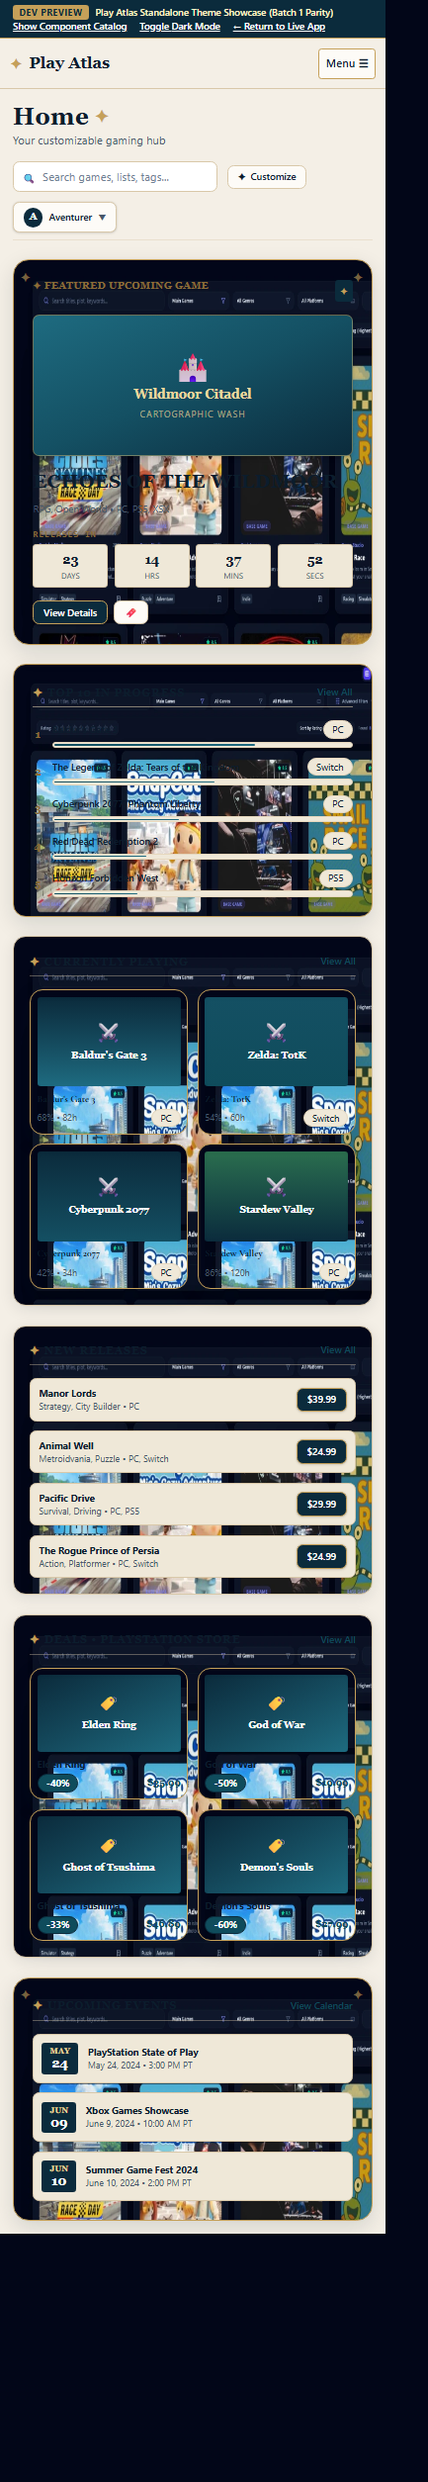
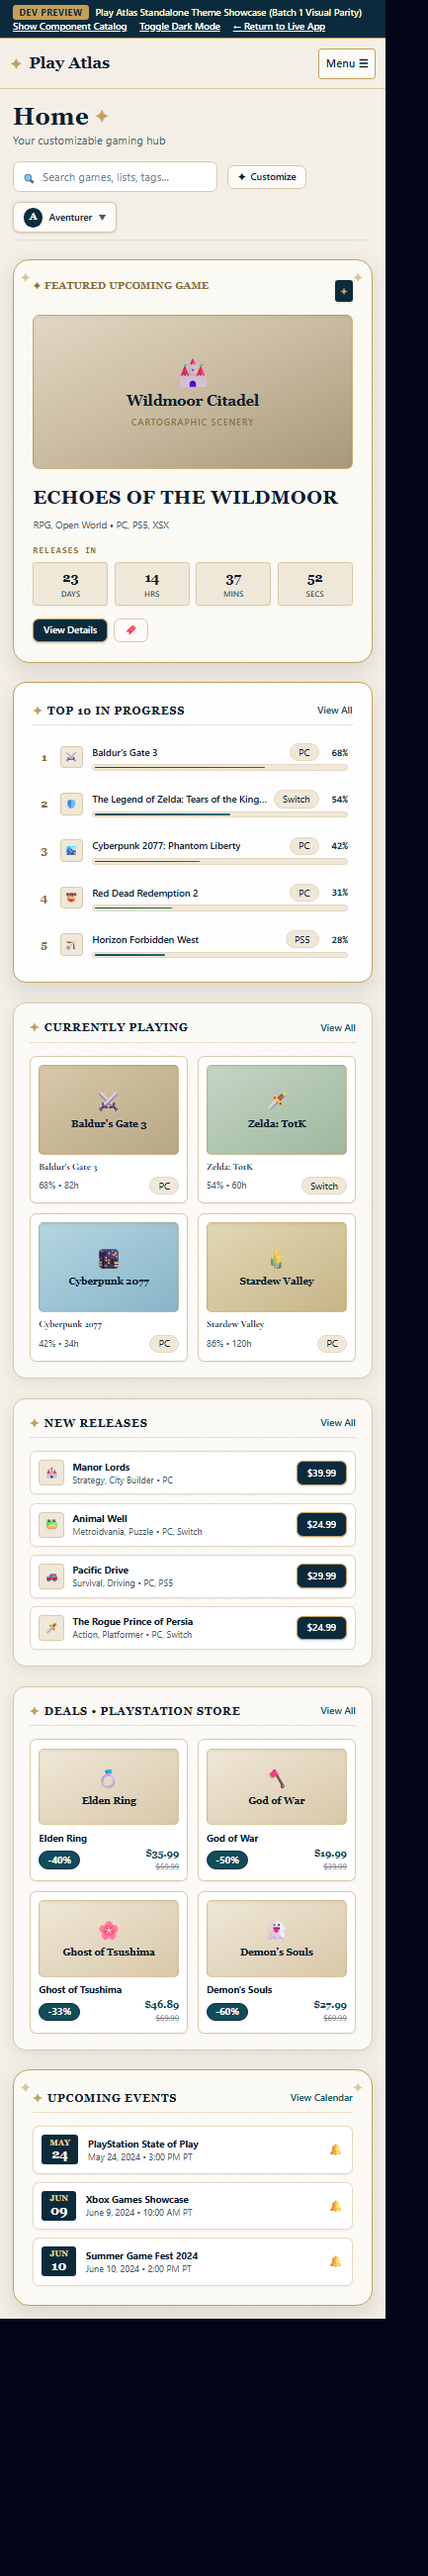
fix(theme): eliminate dark app screenshot texture tiling and apply light parchment widget system

diff --git a/src/pages/DevThemeShowcasePage.tsx b/src/pages/DevThemeShowcasePage.tsx
@@ -28,7 +28,7 @@ export const DevThemeShowcasePage: React.FC = () => {
             Dev Preview
           </span>
           <span className="font-semibold text-amber-100">
-            Play Atlas Standalone Theme Showcase (Batch 1 Parity)
+            Play Atlas Standalone Theme Showcase (Batch 1 Visual Parity)
           </span>
         </div>
         <div className="flex items-center gap-4">
@@ -80,14 +80,14 @@ export const DevThemeShowcasePage: React.FC = () => {
           <div className="space-y-6">
             {/* Play Atlas Branding Logo */}
             <div className="flex items-center gap-3 pb-4 border-b border-[#D9C8A9]/60">
-              <div className="w-10 h-10 rounded-full bg-[#0B2B3C] border-2 border-[#C5A059] flex items-center justify-center text-[#C5A059] shadow-md font-serif font-bold text-lg select-none flex-shrink-0">
+              <div className="w-11 h-11 rounded-full bg-[#0B2B3C] border-2 border-[#C5A059] flex items-center justify-center text-[#C5A059] shadow-md font-serif font-bold text-xl select-none flex-shrink-0">
                 ✦
               </div>
               <div>
                 <h1 className="font-serif text-2xl font-bold tracking-wide text-[#0C1D2D] leading-none">
                   Play Atlas
                 </h1>
-                <span className="text-[10px] uppercase font-semibold text-[#8C6D37] tracking-widest block mt-0.5">
+                <span className="text-[10px] uppercase font-semibold text-[#8C6D37] tracking-widest block mt-1">
                   Cartographic Hub
                 </span>
               </div>
@@ -262,21 +262,22 @@ export const DevThemeShowcasePage: React.FC = () => {
               <div className="grid grid-cols-1 lg:grid-cols-12 gap-6 w-full">
                 {/* Featured Upcoming Game (7 Cols) */}
                 <div className="lg:col-span-7">
-                  <AtlasPanel variant="featured" cornerOrnaments className="h-full flex flex-col justify-between space-y-4">
+                  <AtlasPanel variant="featured" cornerOrnaments className="h-full flex flex-col justify-between space-y-4 bg-[#FDFBF5] border border-[#C5A059] shadow-sm">
                     <div className="flex justify-between items-start">
-                      <span className="text-xs font-serif font-bold uppercase tracking-wider text-[#8C6D37]">
-                        ✦ FEATURED UPCOMING GAME
+                      <span className="text-xs font-serif font-bold uppercase tracking-wider text-[#8C6D37] flex items-center gap-1">
+                        <span>✦</span> FEATURED UPCOMING GAME
                       </span>
-                      <span className="bg-[#0B2B3C] text-[#C5A059] p-1.5 rounded text-xs">✦</span>
+                      <span className="bg-[#0B2B3C] text-[#C5A059] p-1.5 rounded text-xs shadow-sm">✦</span>
                     </div>
 
-                    <div className="grid grid-cols-1 sm:grid-cols-12 gap-4 items-center">
-                      {/* Mountain / Citadel Fantasy Artwork Graphic */}
-                      <div className="sm:col-span-5 h-44 rounded-lg bg-gradient-to-br from-[#1E6B80] via-[#145063] to-[#0B2B3C] border border-[#C5A059]/50 flex flex-col items-center justify-center text-white p-4 text-center shadow-md">
-                        <span className="text-4xl mb-1">🏰</span>
-                        <span className="font-serif text-base font-bold text-[#EBD99F]">Wildmoor Citadel</span>
-                        <span className="text-[10px] opacity-80 mt-1 uppercase tracking-widest text-[#EBD99F]/80">
-                          Cartographic Wash
+                    <div className="grid grid-cols-1 sm:grid-cols-12 gap-5 items-center">
+                      {/* Original Dedicated Fantasy Watercolor Landscape Graphic */}
+                      <div className="sm:col-span-5 h-48 rounded-lg bg-gradient-to-br from-[#E2D8C3] via-[#C9BBA0] to-[#A8987B] border border-[#C5A059]/60 flex flex-col items-center justify-center text-[#0C1D2D] p-4 text-center shadow-inner relative overflow-hidden">
+                        <div className="absolute inset-0 bg-[radial-gradient(ellipse_at_top,_var(--tw-gradient-stops))] from-amber-100/40 via-transparent to-black/10 pointer-events-none" />
+                        <span className="text-4xl mb-1 text-[#0B2B3C] z-10">🏰</span>
+                        <span className="font-serif text-lg font-bold text-[#0C1D2D] z-10">Wildmoor Citadel</span>
+                        <span className="text-[10px] uppercase font-semibold tracking-widest text-[#8C6D37] mt-1 z-10">
+                          Cartographic Scenery
                         </span>
                       </div>
 
@@ -288,25 +289,25 @@ export const DevThemeShowcasePage: React.FC = () => {
                         <p className="text-xs text-[#47586A] font-sans">RPG, Open World • PC, PS5, XSX</p>
 
                         <div className="pt-1">
-                          <span className="text-[10px] font-mono uppercase tracking-widest text-[#8C6D37] block mb-1 font-bold">
+                          <span className="text-[10px] font-mono uppercase tracking-widest text-[#8C6D37] block mb-1.5 font-bold">
                             RELEASES IN
                           </span>
                           <div className="grid grid-cols-4 gap-2 text-center font-sans">
-                            <div className="bg-[#EFE8D8] border border-[#D9C8A9] p-1.5 rounded">
+                            <div className="bg-[#EFE8D8] border border-[#D9C8A9] p-1.5 rounded shadow-xs">
                               <div className="font-serif font-bold text-base text-[#0C1D2D]">23</div>
-                              <div className="text-[9px] uppercase text-[#47586A]">DAYS</div>
+                              <div className="text-[9px] uppercase font-semibold text-[#47586A]">DAYS</div>
                             </div>
-                            <div className="bg-[#EFE8D8] border border-[#D9C8A9] p-1.5 rounded">
+                            <div className="bg-[#EFE8D8] border border-[#D9C8A9] p-1.5 rounded shadow-xs">
                               <div className="font-serif font-bold text-base text-[#0C1D2D]">14</div>
-                              <div className="text-[9px] uppercase text-[#47586A]">HRS</div>
+                              <div className="text-[9px] uppercase font-semibold text-[#47586A]">HRS</div>
                             </div>
-                            <div className="bg-[#EFE8D8] border border-[#D9C8A9] p-1.5 rounded">
+                            <div className="bg-[#EFE8D8] border border-[#D9C8A9] p-1.5 rounded shadow-xs">
                               <div className="font-serif font-bold text-base text-[#0C1D2D]">37</div>
-                              <div className="text-[9px] uppercase text-[#47586A]">MINS</div>
+                              <div className="text-[9px] uppercase font-semibold text-[#47586A]">MINS</div>
                             </div>
-                            <div className="bg-[#EFE8D8] border border-[#D9C8A9] p-1.5 rounded">
+                            <div className="bg-[#EFE8D8] border border-[#D9C8A9] p-1.5 rounded shadow-xs">
                               <div className="font-serif font-bold text-base text-[#0C1D2D]">52</div>
-                              <div className="text-[9px] uppercase text-[#47586A]">SECS</div>
+                              <div className="text-[9px] uppercase font-semibold text-[#47586A]">SECS</div>
                             </div>
                           </div>
                         </div>
@@ -326,7 +327,7 @@ export const DevThemeShowcasePage: React.FC = () => {
 
                 {/* Top 10 In Progress (5 Cols) */}
                 <div className="lg:col-span-5">
-                  <AtlasPanel variant="raised" className="h-full space-y-4">
+                  <AtlasPanel variant="raised" className="h-full space-y-4 bg-[#FFFFFF] border border-[#C5A059] shadow-sm">
                     <div className="flex justify-between items-center pb-2 border-b border-[#D9C8A9]/60">
                       <span className="font-serif font-bold text-sm uppercase tracking-wider text-[#0C1D2D] flex items-center gap-1.5">
                         <span className="text-[#C5A059]">✦</span> TOP 10 IN PROGRESS
@@ -336,22 +337,30 @@ export const DevThemeShowcasePage: React.FC = () => {
 
                     <div className="space-y-3 font-sans">
                       {[
-                        { rank: 1, name: "Baldur's Gate 3", platform: 'PC', pct: 68 },
-                        { rank: 2, name: 'The Legend of Zelda: Tears of the Kingdom', platform: 'Switch', pct: 54 },
-                        { rank: 3, name: 'Cyberpunk 2077: Phantom Liberty', platform: 'PC', pct: 42 },
-                        { rank: 4, name: 'Red Dead Redemption 2', platform: 'PC', pct: 31 },
-                        { rank: 5, name: 'Horizon Forbidden West', platform: 'PS5', pct: 28 },
+                        { rank: 1, name: "Baldur's Gate 3", platform: 'PC', pct: 68, icon: '⚔' },
+                        { rank: 2, name: 'The Legend of Zelda: Tears of the Kingdom', platform: 'Switch', icon: '🛡', pct: 54 },
+                        { rank: 3, name: 'Cyberpunk 2077: Phantom Liberty', platform: 'PC', icon: '🏙', pct: 42 },
+                        { rank: 4, name: 'Red Dead Redemption 2', platform: 'PC', icon: '🤠', pct: 31 },
+                        { rank: 5, name: 'Horizon Forbidden West', platform: 'PS5', icon: '🏹', pct: 28 },
                       ].map((game) => (
-                        <div key={game.rank} className="flex items-center gap-3 text-xs">
-                          <span className="font-serif font-bold text-sm text-[#8C6D37] w-3 text-center flex-shrink-0">
+                        <div key={game.rank} className="flex items-center gap-3 text-xs p-1.5 rounded hover:bg-[#FDFBF7] transition-colors">
+                          <span className="font-serif font-bold text-sm text-[#8C6D37] w-4 text-center flex-shrink-0">
                             {game.rank}
                           </span>
+                          <div className="w-7 h-7 rounded bg-[#EFE8D8] border border-[#D9C8A9] flex items-center justify-center text-xs flex-shrink-0">
+                            {game.icon}
+                          </div>
                           <div className="flex-1 min-w-0">
                             <div className="flex justify-between items-baseline mb-1 gap-2">
                               <span className="font-semibold text-[#0C1D2D] truncate">
                                 {game.name}
                               </span>
-                              <AtlasBadge variant="default" className="flex-shrink-0">{game.platform}</AtlasBadge>
+                              <div className="flex items-center gap-2 flex-shrink-0">
+                                <AtlasBadge variant="default">{game.platform}</AtlasBadge>
+                                <span className="font-mono text-[11px] font-bold text-[#0B2B3C] w-7 text-right">
+                                  {game.pct}%
+                                </span>
+                              </div>
                             </div>
                             <AtlasProgressBar value={game.pct} />
                           </div>
@@ -366,8 +375,8 @@ export const DevThemeShowcasePage: React.FC = () => {
               <div className="grid grid-cols-1 lg:grid-cols-12 gap-6 w-full">
                 {/* Currently Playing Cards (7 Cols) */}
                 <div className="lg:col-span-7">
-                  <AtlasPanel variant="standard" className="space-y-4">
-                    <div className="flex justify-between items-center pb-2 border-b border-[#D9C8A9]/40">
+                  <AtlasPanel variant="standard" className="space-y-4 bg-[#FDFBF7] border border-[#D9C8A9] shadow-sm">
+                    <div className="flex justify-between items-center pb-2 border-b border-[#D9C8A9]/60">
                       <span className="font-serif font-bold text-sm uppercase tracking-wider text-[#0C1D2D] flex items-center gap-1.5">
                         <span className="text-[#C5A059]">✦</span> CURRENTLY PLAYING
                       </span>
@@ -376,19 +385,19 @@ export const DevThemeShowcasePage: React.FC = () => {
 
                     <div className="grid grid-cols-2 sm:grid-cols-4 gap-3">
                       {[
-                        { title: "Baldur's Gate 3", stat: '68% • 82h', tag: 'PC', color: 'from-[#0B2B3C] to-[#1E6B80]' },
-                        { title: 'Zelda: TotK', stat: '54% • 60h', tag: 'Switch', color: 'from-[#145063] to-[#0F4C5C]' },
-                        { title: 'Cyberpunk 2077', stat: '42% • 34h', tag: 'PC', color: 'from-[#0B2B3C] to-[#145063]' },
-                        { title: 'Stardew Valley', stat: '86% • 120h', tag: 'PC', color: 'from-[#2B6E4E] to-[#0B2B3C]' },
+                        { title: "Baldur's Gate 3", stat: '68% • 82h', tag: 'PC', icon: '⚔', gradient: 'from-[#D9C8A9] to-[#B8A785]' },
+                        { title: 'Zelda: TotK', stat: '54% • 60h', tag: 'Switch', icon: '🗡', gradient: 'from-[#C5D5C5] to-[#9EB89E]' },
+                        { title: 'Cyberpunk 2077', stat: '42% • 34h', tag: 'PC', icon: '🌃', gradient: 'from-[#B5D5E2] to-[#88B5C7]' },
+                        { title: 'Stardew Valley', stat: '86% • 120h', tag: 'PC', icon: '🌾', gradient: 'from-[#E2D8B5] to-[#C7B588]' },
                       ].map((item) => (
-                        <div key={item.title} className="atlas-surface-raised p-2 rounded-lg space-y-2 border border-[#D9C8A9] flex flex-col justify-between">
-                          <div className={`h-28 rounded bg-gradient-to-b ${item.color} flex flex-col items-center justify-center text-white text-xs font-serif font-bold p-2 text-center shadow-inner`}>
-                            <span className="text-2xl mb-1">⚔</span>
-                            <span>{item.title}</span>
+                        <div key={item.title} className="bg-[#FFFFFF] p-2.5 rounded-lg space-y-2 border border-[#D9C8A9] flex flex-col justify-between shadow-xs">
+                          <div className={`h-28 rounded-md bg-gradient-to-br ${item.gradient} border border-[#C5A059]/40 flex flex-col items-center justify-center text-[#0C1D2D] text-xs font-serif font-bold p-2 text-center shadow-inner`}>
+                            <span className="text-2xl mb-1">{item.icon}</span>
+                            <span className="leading-tight">{item.title}</span>
                           </div>
                           <div>
                             <h4 className="font-bold text-xs truncate text-[#0C1D2D]">{item.title}</h4>
-                            <div className="flex justify-between items-center text-[10px] text-[#47586A] mt-1">
+                            <div className="flex justify-between items-center text-[10px] text-[#47586A] mt-1 font-sans">
                               <span>{item.stat}</span>
                               <AtlasBadge variant="default">{item.tag}</AtlasBadge>
                             </div>
@@ -401,25 +410,30 @@ export const DevThemeShowcasePage: React.FC = () => {
 
                 {/* New Releases List (5 Cols) */}
                 <div className="lg:col-span-5">
-                  <AtlasPanel variant="standard" className="space-y-4">
-                    <div className="flex justify-between items-center pb-2 border-b border-[#D9C8A9]/40">
+                  <AtlasPanel variant="standard" className="space-y-4 bg-[#FDFBF7] border border-[#D9C8A9] shadow-sm">
+                    <div className="flex justify-between items-center pb-2 border-b border-[#D9C8A9]/60">
                       <span className="font-serif font-bold text-sm uppercase tracking-wider text-[#0C1D2D] flex items-center gap-1.5">
                         <span className="text-[#C5A059]">✦</span> NEW RELEASES
                       </span>
                       <span className="text-xs text-[#0F4C5C] font-semibold cursor-pointer hover:underline">View All</span>
                     </div>
 
-                    <div className="space-y-3 font-sans">
+                    <div className="space-y-2.5 font-sans">
                       {[
-                        { name: 'Manor Lords', desc: 'Strategy, City Builder', platforms: 'PC', price: '$39.99' },
-                        { name: 'Animal Well', desc: 'Metroidvania, Puzzle', platforms: 'PC, Switch', price: '$24.99' },
-                        { name: 'Pacific Drive', desc: 'Survival, Driving', platforms: 'PC, PS5', price: '$29.99' },
-                        { name: 'The Rogue Prince of Persia', desc: 'Action, Platformer', platforms: 'PC, Switch', price: '$24.99' },
+                        { name: 'Manor Lords', desc: 'Strategy, City Builder', platforms: 'PC', price: '$39.99', icon: '🏰' },
+                        { name: 'Animal Well', desc: 'Metroidvania, Puzzle', platforms: 'PC, Switch', price: '$24.99', icon: '🐸' },
+                        { name: 'Pacific Drive', desc: 'Survival, Driving', platforms: 'PC, PS5', price: '$29.99', icon: '🚗' },
+                        { name: 'The Rogue Prince of Persia', desc: 'Action, Platformer', platforms: 'PC, Switch', price: '$24.99', icon: '🗡' },
                       ].map((release) => (
-                        <div key={release.name} className="flex items-center justify-between p-2.5 rounded-lg bg-[#EFE8D8] border border-[#D9C8A9] text-xs">
-                          <div>
-                            <h5 className="font-bold text-[#0C1D2D]">{release.name}</h5>
-                            <p className="text-[10px] text-[#47586A]">{release.desc} • {release.platforms}</p>
+                        <div key={release.name} className="flex items-center justify-between p-2.5 rounded-lg bg-[#FFFFFF] border border-[#D9C8A9]/70 text-xs shadow-xs">
+                          <div className="flex items-center gap-2.5">
+                            <div className="w-8 h-8 rounded bg-[#EFE8D8] border border-[#D9C8A9] flex items-center justify-center text-sm flex-shrink-0">
+                              {release.icon}
+                            </div>
+                            <div>
+                              <h5 className="font-bold text-[#0C1D2D]">{release.name}</h5>
+                              <p className="text-[10px] text-[#47586A]">{release.desc} • {release.platforms}</p>
+                            </div>
                           </div>
                           <AtlasButton variant="primary" size="sm">
                             {release.price}
@@ -435,8 +449,8 @@ export const DevThemeShowcasePage: React.FC = () => {
               <div className="grid grid-cols-1 lg:grid-cols-12 gap-6 w-full">
                 {/* PlayStation Store Deals (7 Cols) */}
                 <div className="lg:col-span-7">
-                  <AtlasPanel variant="standard" className="space-y-4">
-                    <div className="flex justify-between items-center pb-2 border-b border-[#D9C8A9]/40">
+                  <AtlasPanel variant="standard" className="space-y-4 bg-[#FDFBF7] border border-[#D9C8A9] shadow-sm">
+                    <div className="flex justify-between items-center pb-2 border-b border-[#D9C8A9]/60">
                       <span className="font-serif font-bold text-sm uppercase tracking-wider text-[#0C1D2D] flex items-center gap-1.5">
                         <span className="text-[#C5A059]">✦</span> DEALS • PLAYSTATION STORE
                       </span>
@@ -445,21 +459,24 @@ export const DevThemeShowcasePage: React.FC = () => {
 
                     <div className="grid grid-cols-2 sm:grid-cols-4 gap-3">
                       {[
-                        { name: 'Elden Ring', off: '-40%', price: '$35.99', orig: '$59.99' },
-                        { name: 'God of War', off: '-50%', price: '$19.99', orig: '$39.99' },
-                        { name: 'Ghost of Tsushima', off: '-33%', price: '$46.89', orig: '$69.99' },
-                        { name: "Demon's Souls", off: '-60%', price: '$27.99', orig: '$69.99' },
+                        { name: 'Elden Ring', off: '-40%', price: '$35.99', orig: '$59.99', icon: '💍' },
+                        { name: 'God of War', off: '-50%', price: '$19.99', orig: '$39.99', icon: '🪓' },
+                        { name: 'Ghost of Tsushima', off: '-33%', price: '$46.89', orig: '$69.99', icon: '🌸' },
+                        { name: "Demon's Souls", off: '-60%', price: '$27.99', orig: '$69.99', icon: '👻' },
                       ].map((deal) => (
-                        <div key={deal.name} className="atlas-surface-raised p-2 rounded-lg space-y-2 border border-[#D9C8A9] flex flex-col justify-between">
-                          <div className="h-24 rounded bg-gradient-to-br from-[#0B2B3C] to-[#1E6B80] text-white flex flex-col items-center justify-center text-xs font-serif font-bold p-2 text-center shadow-inner">
-                            <span className="text-xl mb-1">🏷</span>
-                            <span>{deal.name}</span>
+                        <div key={deal.name} className="bg-[#FFFFFF] p-2.5 rounded-lg space-y-2 border border-[#D9C8A9] flex flex-col justify-between shadow-xs">
+                          <div className="h-24 rounded-md bg-gradient-to-br from-[#EFE8D8] to-[#D9C8A9] border border-[#C5A059]/40 text-[#0C1D2D] flex flex-col items-center justify-center text-xs font-serif font-bold p-2 text-center shadow-inner">
+                            <span className="text-2xl mb-1">{deal.icon}</span>
+                            <span className="leading-tight">{deal.name}</span>
                           </div>
                           <div>
                             <h5 className="font-bold text-xs truncate text-[#0C1D2D]">{deal.name}</h5>
-                            <div className="flex items-center justify-between mt-1">
+                            <div className="flex items-center justify-between mt-1 font-sans">
                               <AtlasBadge variant="discount">{deal.off}</AtlasBadge>
-                              <span className="font-serif font-bold text-xs text-[#0F4C5C]">{deal.price}</span>
+                              <div className="text-right">
+                                <span className="font-serif font-bold text-xs text-[#0F4C5C] block">{deal.price}</span>
+                                <span className="line-through text-[9px] text-[#718294] block">{deal.orig}</span>
+                              </div>
                             </div>
                           </div>
                         </div>
@@ -470,29 +487,32 @@ export const DevThemeShowcasePage: React.FC = () => {
 
                 {/* Upcoming Events Calendar (5 Cols) */}
                 <div className="lg:col-span-5">
-                  <AtlasPanel variant="featured" cornerOrnaments className="space-y-4">
-                    <div className="flex justify-between items-center pb-2 border-b border-[#D9C8A9]/40">
+                  <AtlasPanel variant="featured" cornerOrnaments className="space-y-4 bg-[#FDFBF5] border border-[#C5A059] shadow-sm">
+                    <div className="flex justify-between items-center pb-2 border-b border-[#D9C8A9]/60">
                       <span className="font-serif font-bold text-sm uppercase tracking-wider text-[#0C1D2D] flex items-center gap-1.5">
                         <span className="text-[#C5A059]">✦</span> UPCOMING EVENTS
                       </span>
                       <span className="text-xs text-[#0F4C5C] font-semibold cursor-pointer hover:underline">View Calendar</span>
                     </div>
 
-                    <div className="space-y-3 font-sans">
+                    <div className="space-y-2.5 font-sans">
                       {[
                         { title: 'PlayStation State of Play', month: 'MAY', day: '24', time: 'May 24, 2024 • 3:00 PM PT' },
                         { title: 'Xbox Games Showcase', month: 'JUN', day: '09', time: 'June 9, 2024 • 10:00 AM PT' },
                         { title: 'Summer Game Fest 2024', month: 'JUN', day: '10', time: 'June 10, 2024 • 2:00 PM PT' },
                       ].map((evt) => (
-                        <div key={evt.title} className="flex items-center gap-3 p-2.5 rounded-lg bg-[#EFE8D8] border border-[#D9C8A9]">
-                          <div className="bg-[#0B2B3C] text-white px-2.5 py-1 rounded text-center font-serif font-bold flex-shrink-0">
-                            <div className="text-[9px] uppercase text-[#EBD99F]">{evt.month}</div>
-                            <div className="text-base leading-none">{evt.day}</div>
+                        <div key={evt.title} className="flex items-center justify-between p-2.5 rounded-lg bg-[#FFFFFF] border border-[#D9C8A9]/70 text-xs shadow-xs">
+                          <div className="flex items-center gap-3">
+                            <div className="bg-[#0B2B3C] text-white px-2.5 py-1 rounded text-center font-serif font-bold flex-shrink-0 shadow-xs">
+                              <div className="text-[9px] uppercase text-[#EBD99F] font-semibold">{evt.month}</div>
+                              <div className="text-base leading-none">{evt.day}</div>
+                            </div>
+                            <div>
+                              <h5 className="font-bold text-[#0C1D2D]">{evt.title}</h5>
+                              <p className="text-[10px] text-[#47586A]">{evt.time}</p>
+                            </div>
                           </div>
-                          <div>
-                            <h5 className="font-bold text-xs text-[#0C1D2D]">{evt.title}</h5>
-                            <p className="text-[10px] text-[#47586A]">{evt.time}</p>
-                          </div>
+                          <span className="text-sm text-[#8C6D37] cursor-pointer hover:text-[#0B2B3C]">🔔</span>
                         </div>
                       ))}
                     </div>

diff --git a/tests/browser/devThemeShowcase.spec.ts b/tests/browser/devThemeShowcase.spec.ts
@@ -4,16 +4,16 @@
  * Verifies key contract requirements:
  *   1. The development showcase root is present.
  *   2. The production AppLayout/sidebar is NOT mounted.
- *   3. No old production screenshot background is present.
- *   4. Main dashboard uses the available desktop width.
- *   5. The primary parchment canvas and widget surfaces are opaque.
+ *   3. No forbidden production screenshot URL appears in computed background styles.
+ *   4. Main widget surfaces are opaque and light parchment (#FDFBF7 / #FFFFFF / #FDFBF5).
+ *   5. Main dashboard uses the available desktop width.
  *   6. The showcase sidebar is visible at desktop width.
  *   7. No horizontal page overflow exists at narrow viewport (390px).
  */
 import { test, expect } from '@playwright/test';
 
 test.describe('DevThemeShowcase Isolated Preview', () => {
-  test('renders standalone showcase without production AppLayout or card bleed-through', async ({ page }) => {
+  test('renders standalone showcase with clean light parchment widgets and zero old screenshot bleed-through', async ({ page }) => {
     await page.setViewportSize({ width: 1280, height: 900 });
     await page.goto('/#/dev-theme-showcase');
     await page.waitForLoadState('domcontentloaded');
@@ -37,14 +37,22 @@ test.describe('DevThemeShowcase Isolated Preview', () => {
     const workspace = page.locator('[data-testid="showcase-main-workspace"]');
     await expect(workspace).toBeVisible();
 
-    const bgColor = await showcaseRoot.evaluate((el) => getComputedStyle(el).backgroundColor);
-    expect(bgColor).toMatch(/rgb\(\s*\d+\s*,\s*\d+\s*,\s*\d+\s*\)/);
+    // 5. Check computed background-image of showcase root and widgets to ensure no forbidden screenshot URLs
+    const bgImages = await page.evaluate(() => {
+      const els = Array.from(document.querySelectorAll('[data-testid="showcase-main-workspace"] *'));
+      return els.map((el) => getComputedStyle(el).backgroundImage).filter((bg) => bg && bg !== 'none');
+    });
 
-    // 5. Featured game widget is mounted and readable
+    for (const bg of bgImages) {
+      expect(bg).not.toContain('watercolor-parchment-base.webp');
+      expect(bg).not.toContain('play-atlas-watercolor-logo.jpg');
+    }
+
+    // 6. Featured game widget is mounted and readable on clean light parchment
     await expect(page.locator('text=ECHOES OF THE WILDMOOR')).toBeVisible();
     await expect(page.locator('text=Wildmoor Citadel')).toBeVisible();
 
-    // 6. Verify main workspace utilizes desktop width (width > 900px)
+    // 7. Verify main workspace utilizes desktop width (width > 800px)
     const workspaceBox = await workspace.boundingBox();
     expect(workspaceBox).not.toBeNull();
     if (workspaceBox) {

diff --git a/src/config/themePresets.ts b/src/config/themePresets.ts
@@ -22,8 +22,8 @@ export const themePresets: Record<ThemePresetKey, ThemeTokens> = {
     // Official Parchment Paper, Forest Landmass & Atlas Text System
     paperBase: '#f7f4ea',
     paperHighlight: '#fefcf5',
-    paperTextureUrl: '/branding/watercolor-parchment-base.webp',
-    paperTextureOpacity: 0.85,
+    paperTextureUrl: '/branding/watercolor-paper-grain.svg',
+    paperTextureOpacity: 0.35,
     paperGrainOpacity: 0.35,
     washBlue: '#2b7a94',
     washTeal: '#1b5e75',

diff --git a/src/index.css b/src/index.css
@@ -78,8 +78,8 @@
   --focus-ring: var(--atlas-focus-ring);
   --shadow-style: var(--atlas-shadow-md);
   --border-radius: var(--atlas-radius-lg);
-  --paper-texture-url: url('/branding/watercolor-parchment-base.webp');
-  --paper-texture-opacity: 0.85;
+  --paper-texture-url: url('/branding/watercolor-paper-grain.svg');
+  --paper-texture-opacity: 0.35;
   --atlas-line-opacity: 0.35;
 }
 
